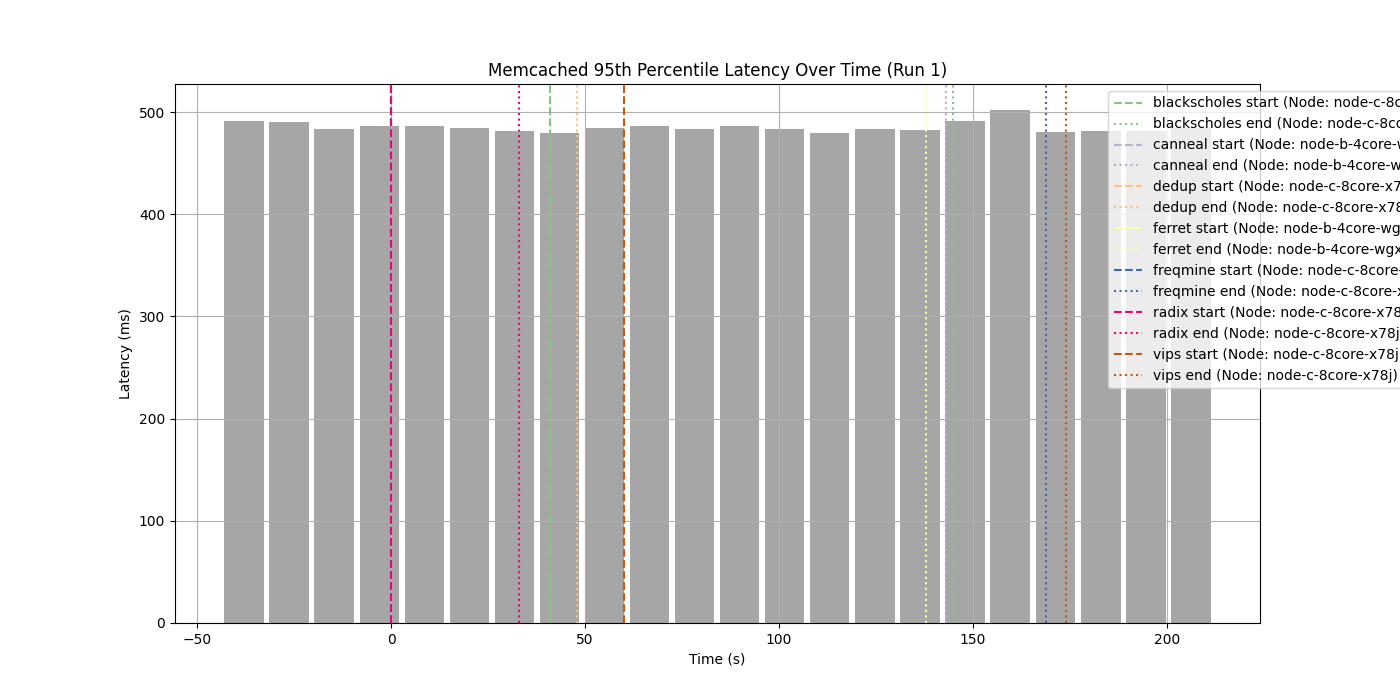
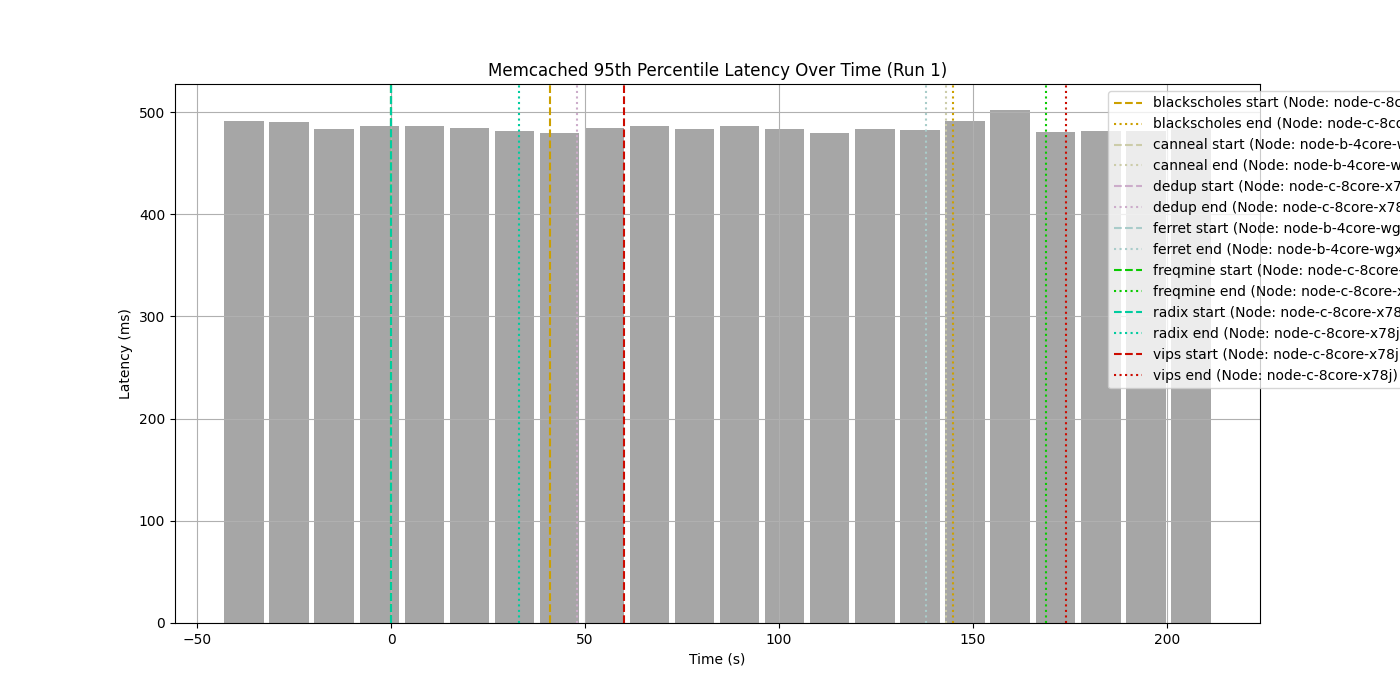
corrected color

diff --git a/part3/plots_part3_q1.py b/part3/plots_part3_q1.py
@@ -55,14 +55,15 @@ def adjust_timestamps(mcperf_data, pods_data):
 def plot_latency(mcperf_data, pods_data, run_number):
     plt.figure(figsize=(14, 7))
     color_map = {
-        'blackscholes': '#7fc97f',
-        'canneal': '#beaed4',
-        'dedup': '#fdc086',
-        'ferret': '#ffff99',
-        'freqmine': '#386cb0',
-        'radix': '#f0027f',
-        'vips': '#bf5b17'
+        'blackscholes': '#cca000',  # Beige
+        'canneal': '#cccca9',  # Yellow-grey
+        'dedup': '#ccacca',  # Light purple (Lavender)
+        'ferret': '#a9ccca',  # Light blue-grey (Light Steel Blue)
+        'freqmine': '#09ca00',  # Green
+        'radix': '#00cc9f',  # Mint (Pale green)
+        'vips': '#cc0b00'  # Red
     }
+
     for index, row in mcperf_data.iterrows():
         plt.bar(x=row['ts_start_rel'], height=row['p95'], width=(row['ts_end_rel'] - row['ts_start_rel']), color='grey', alpha=0.7)
     for index, row in pods_data.iterrows():
